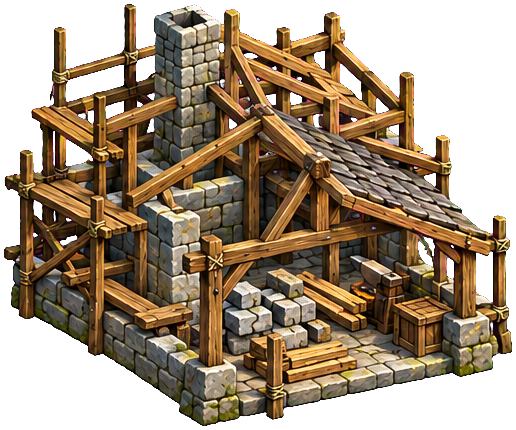
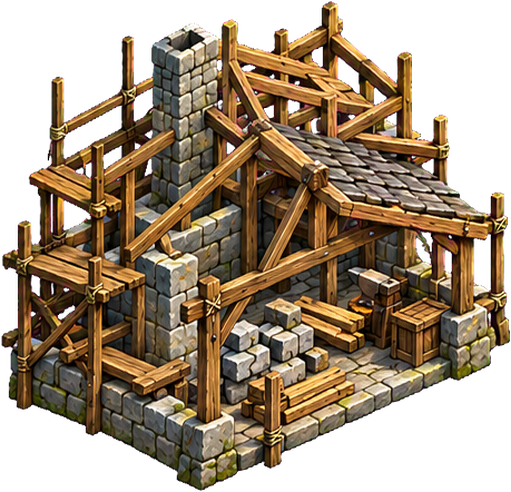
鍛冶場の絵の向きを区画のひし形に合わせた（縦の線は保ったまま、横の縮めと縦のずらしで補正。tools/fix_bld_angle.py、元絵は tools/bld_src/）
Claude-Session: https://claude.ai/code/session_01U4ZkdG4oiQwzCMguo6ztrR

diff --git a/terrain/main.js b/terrain/main.js
@@ -1,9 +1,9 @@
 // 領地の地形テスト：地形は three.js（正射影・傾き固定）、小物は切り抜き板、区画はコードのデータ。
 // 座標の約束：基準画像（①）の画素座標 (sx, sy) を使う。地面 (x, z) は x=sx、z=(sy-SY0)/sinE。
 import * as THREE from './vendor/three.module.min.js';
-import * as GM from './game.js?v=1793268820';
-import { createUI } from './ui.js?v=1793268820';
-import { createMorning } from './morning.js?v=1793268820';
+import * as GM from './game.js?v=1793270395';
+import { createUI } from './ui.js?v=1793270395';
+import { createMorning } from './morning.js?v=1793270395';
 
 const layout = await (await fetch('data/layout.json')).json();
 const REF_W = layout.world.w, REF_H = layout.world.h, AREA0_W = 941; // 世界の大きさ（基準画像の画素）

diff --git a/terrain/index.html b/terrain/index.html
@@ -42,5 +42,5 @@ html,body{margin:0;height:100%;background:#0d1a10;overflow:hidden;touch-action:n
 </script>
 <canvas id="gl"></canvas>
 <div id="hud" style="display:none"></div><div id="st"></div>
-<script type="module" src="main.js?v=1793268820"></script>
+<script type="module" src="main.js?v=1793270395"></script>
 </body></html>

diff --git a/terrain/tools/fix_bld_angle.py b/terrain/tools/fix_bld_angle.py
@@ -1,0 +1,34 @@
+# 建物の切り抜き絵の「向き」を区画のひし形（辺の傾き ±1/2）に合わせる。2026-10-29、鍛冶場が約10〜15°回って描かれていたため。
+# やり方：縦の線は縦のまま（x方向の拡大 a と、x に比例した縦のずらし c だけ）。土台の平行四辺形 fp の2辺の傾きが +0.5 と −0.5 になる a, c を解く。
+#   x' = a (x − px) + PX,  y' = y + c (x − px) + PY   （px＝足元の基準点。基準点は動かさない）
+# 元の絵は tools/bld_src/ に退避し、毎回そこから作る（何度回しても重ねがけにならない）。
+# 最後に全体を 1/a 倍して、土台の横幅を元と同じにする（区画に対する建物の大きさを変えない）。
+# 使い方: cd terrain && python3 tools/fix_bld_angle.py smithy tavern
+import sys, os, json, shutil, math
+from PIL import Image
+SRC = 'tools/bld_src/'; os.makedirs(SRC, exist_ok=True)
+meta = json.load(open('data/bld.json'))
+if not os.path.exists(SRC + 'bld.json'): shutil.copy('data/bld.json', SRC + 'bld.json')
+orig = json.load(open(SRC + 'bld.json'))
+for fac in sys.argv[1:]:
+    for k in (1, 2, 3):
+        key = f'assets/bld/{fac}_{k}.png'; src = SRC + f'{fac}_{k}.png'
+        if not os.path.exists(src): shutil.copy(key, src)
+        m = orig[key]; fp = m['fp']; im = Image.open(src).convert('RGBA'); w, h = im.size
+        sp = (fp[1][1] - fp[0][1]) / (fp[1][0] - fp[0][0])     # 右上がりの辺（奥→右）
+        sm = (fp[0][1] - fp[3][1]) / (fp[0][0] - fp[3][0])     # 右下がりの辺（左→奥）を右向きに
+        a = (sp - sm) / 1.0; c = 0.5 * a - sp
+        px, py = m['ax'] * w, m['ay'] * h
+        xs = [a * (x - px) for x in (0, w)]; ys = [y + c * (x - px) for x in (0, w) for y in (0, h)]
+        PX = -min(xs); PY = -min(ys); W2 = math.ceil(max(xs) + PX) + 1; H2 = math.ceil(max(ys) + PY) + 1
+        out = im.transform((W2, H2), Image.AFFINE, (1 / a, 0, px - PX / a, -c / a, 1, -PY + c * PX / a), resample=Image.BICUBIC)
+        out = out.crop(out.getbbox()); bb = im.transform((W2, H2), Image.AFFINE, (1 / a, 0, px - PX / a, -c / a, 1, -PY + c * PX / a)).getbbox()
+        ox, oy = bb[0], bb[1]
+        k2 = 1 / a   # 土台の横幅を元の絵と同じに戻す（全体を一様に拡大縮小。建物の大きさが区画に対して変わらない）
+        out = out.resize((round(out.width * k2), round(out.height * k2)), Image.LANCZOS); out.save(key, optimize=True)
+        T = lambda x, y: [round((a * (x - px) + PX - ox) * k2, 1), round((y + c * (x - px) + PY - oy) * k2, 1)]
+        nfp = [T(*p) for p in fp]; ax_, ay_ = T(px, py)
+        meta[key] = {'w': out.width, 'h': out.height, 'ax': round(ax_ / out.width, 4), 'ay': round(ay_ / out.height, 4), 'fp': nfp}
+        ang = [round(math.degrees(math.atan2(nfp[(i + 1) % 4][1] - nfp[i][1], nfp[(i + 1) % 4][0] - nfp[i][0])), 1) for i in range(4)]
+        print(key, f'a={a:.3f} c={c:.3f}', (w, h), '->', out.size, ang)
+json.dump(meta, open('data/bld.json', 'w'), indent=1)
